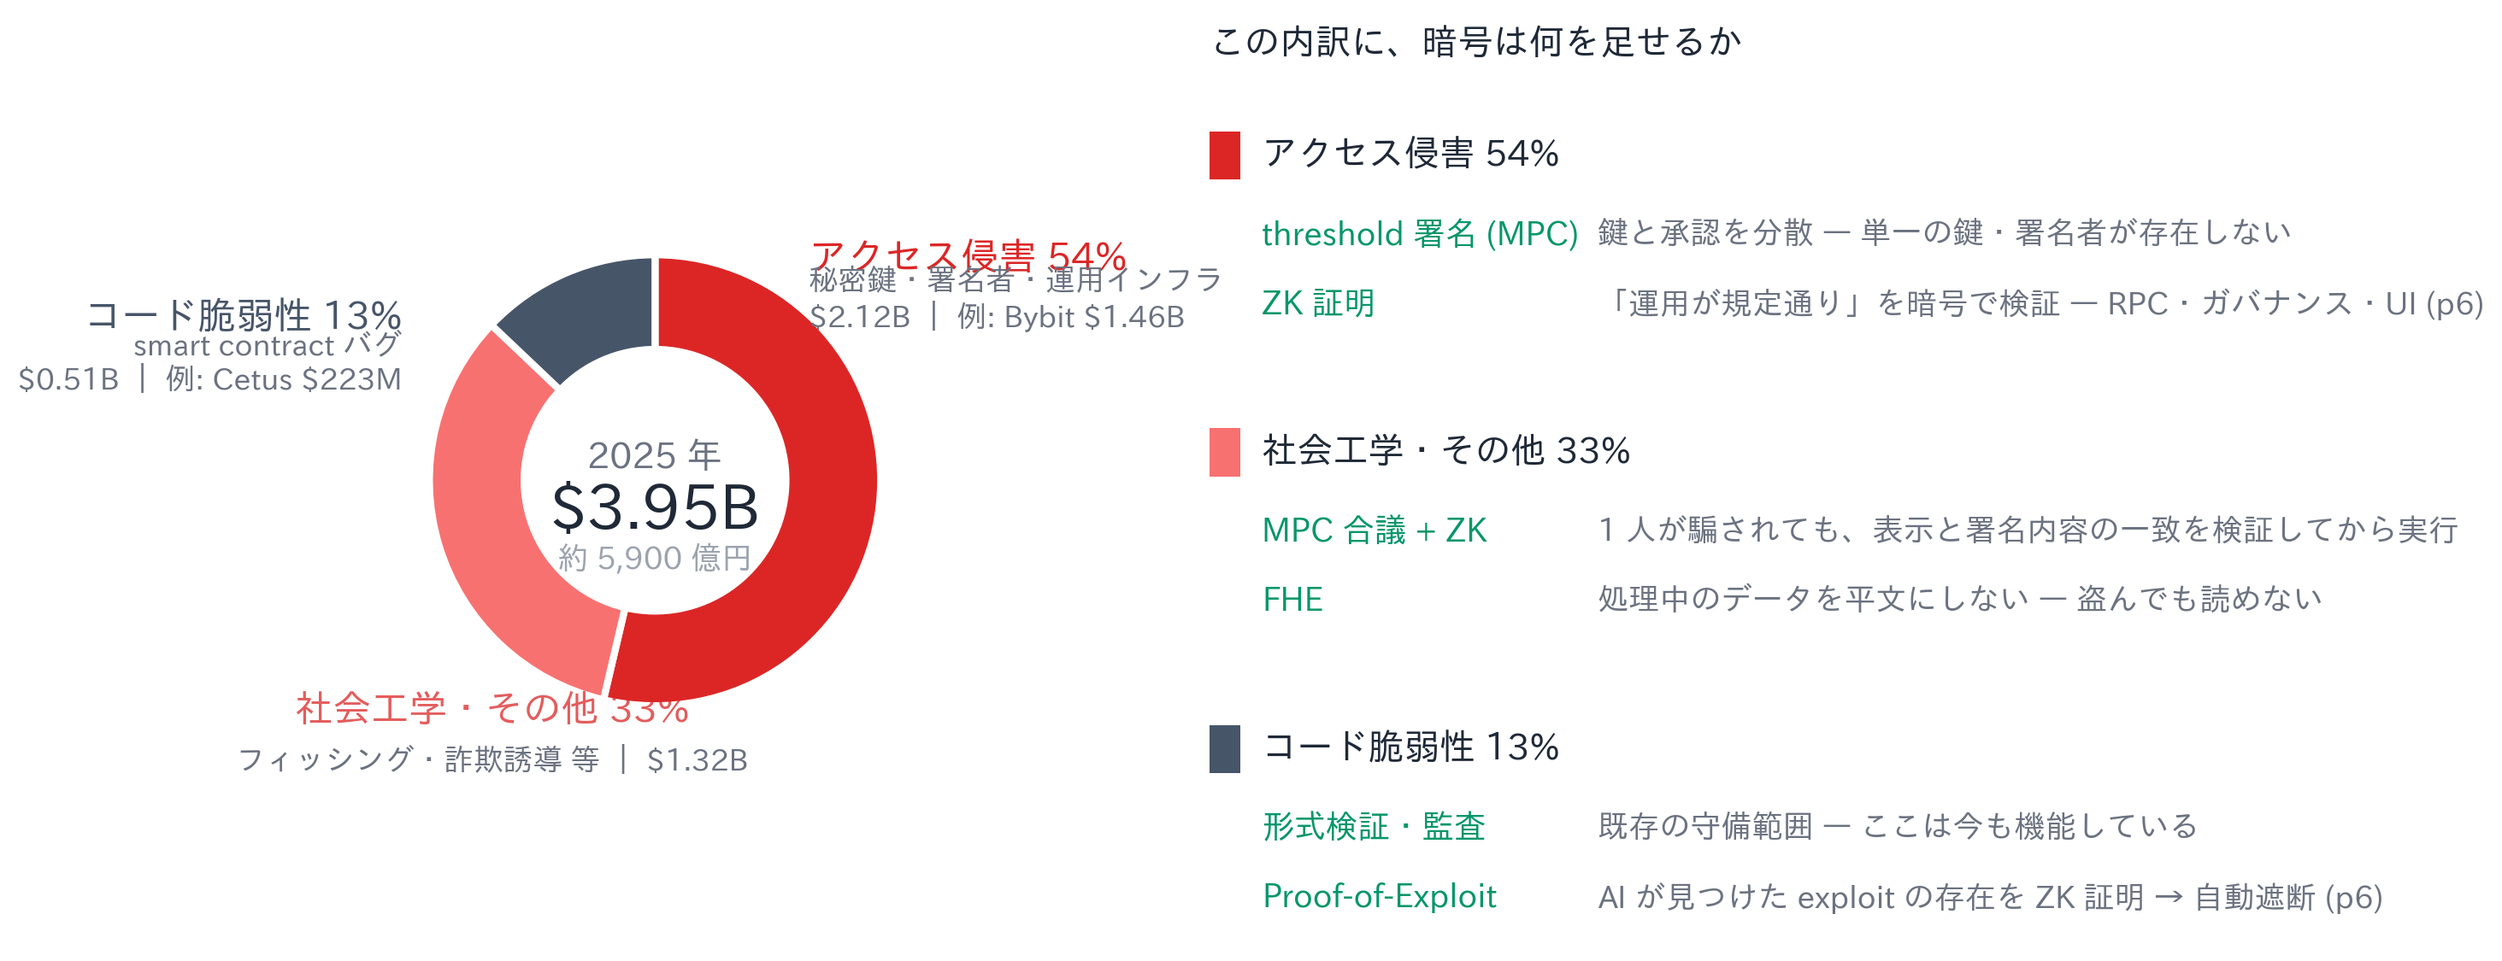
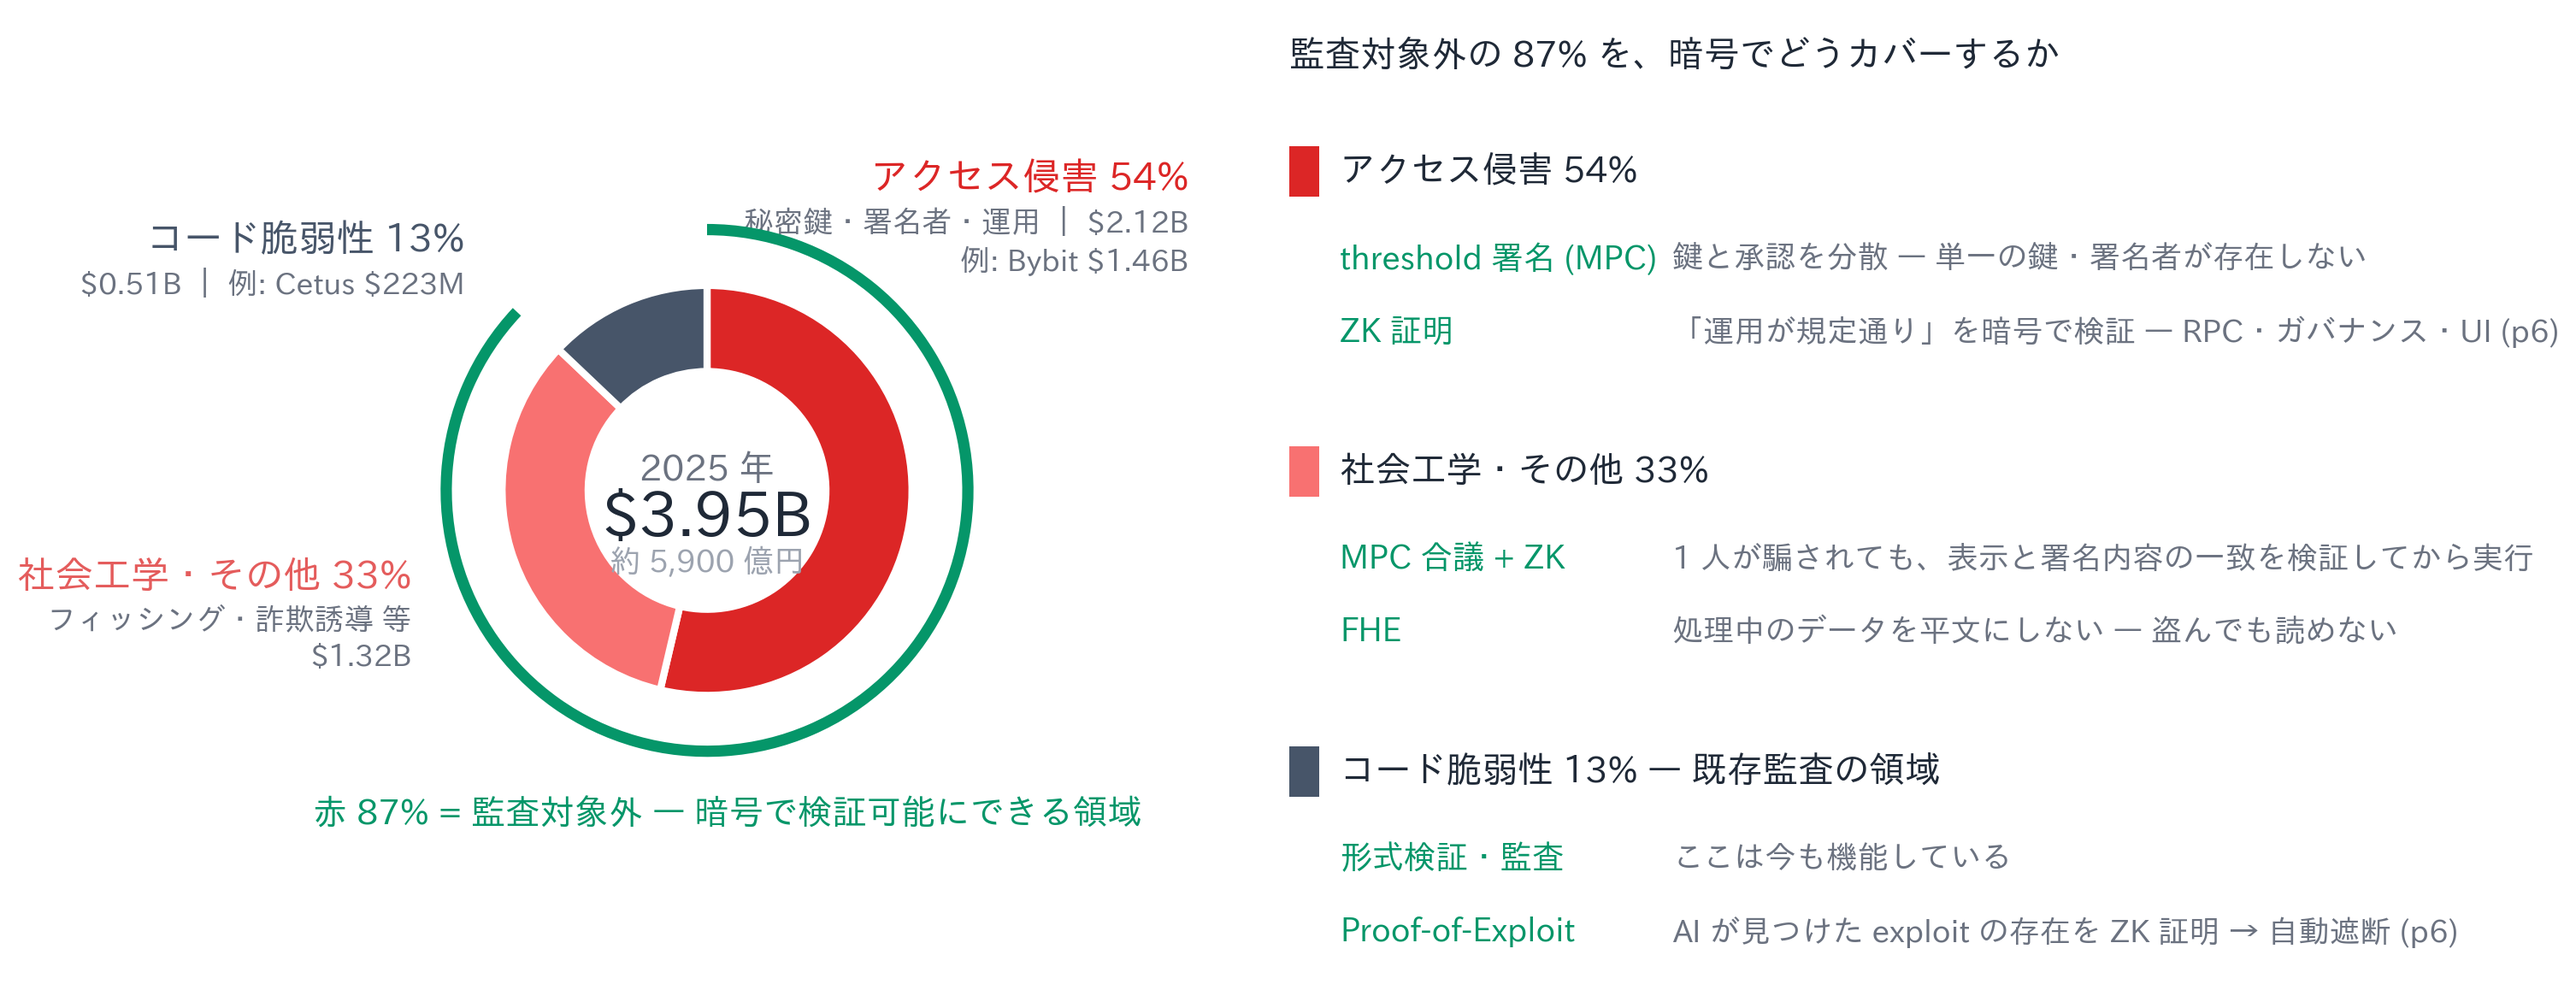
p7 (SL10): 円グラフのラベル再配置 + 監査対象外 87% を緑アークで「暗号でカバー可能」と明示

diff --git a/figures/hack_pie.py b/figures/hack_pie.py
@@ -5,16 +5,17 @@
 #
 # 設計:
 #   - ドーナツ (左) = 事実。Hacken 2025 Yearly Security Report の分類・金額。
-#   - 右側 = 各領域に対する暗号の防ぎ方 (green = 防御、デッキの色語彙に従う)。
-#   - 色は p3 (scope_gap_chart) と同義: グレー = コード脆弱性 (監査対象内)、
-#     赤系 = 監査の外 (アクセス侵害 / 社会工学)。
+#   - 監査対象外の 2 スライス (赤系, 87%) を緑の外周アークで束ね
+#     「暗号で検証可能にできる領域」であることを図から直接読ませる。
+#   - 右側 = その 87% への暗号の効き方 (green = 防御、デッキの色語彙に従う)。
+#   - 色は p3 (scope_gap_chart) と同義: グレー = コード脆弱性 (監査対象内)、赤系 = 監査対象外。
 #   - 凡例なし。スライス外の直接ラベル + 右のマッピング行で読ませる。
 
 import matplotlib
 matplotlib.use("Agg")
 import matplotlib.pyplot as plt
 import matplotlib.font_manager as fm
-from matplotlib.patches import Rectangle
+from matplotlib.patches import Rectangle, Wedge
 
 candidates = ["Noto Sans CJK JP", "Noto Sans JP", "IPAexGothic", "IPAGothic", "TakaoGothic"]
 available = {f.name for f in fm.fontManager.ttflist}
@@ -37,21 +38,24 @@ fig = plt.figure(figsize=(13.2, 5.9), dpi=200)
 fig.patch.set_facecolor(SURFACE)
 
 # ---------------------------------------------------------------- donut (left)
-ax = fig.add_axes([0.015, 0.04, 0.42, 0.92])
+ax = fig.add_axes([0.005, 0.02, 0.445, 0.96])
 ax.set_facecolor(SURFACE)
 ax.axis("off")
 
 # Hacken 2025 Yearly Security Report (total ~$3.95B)
-vals = [2.12, 1.32, 0.51]           # $B
-labels = ["アクセス侵害", "社会工学・その他", "コード脆弱性"]
+vals = [2.12, 1.32, 0.51]           # アクセス侵害 / 社会工学・その他 / コード脆弱性 ($B)
 colors = [RED, RED_LIGHT, GRAY]
-pcts = [54, 33, 13]
 
 wedges, _ = ax.pie(
     vals, colors=colors, startangle=90, counterclock=False,
     wedgeprops=dict(width=0.42, edgecolor=SURFACE, linewidth=3),
 )
 ax.set_aspect("equal")
+
+# 監査対象外 87% (アクセス侵害 + 社会工学) を束ねる緑の外周アーク
+# counterclock=False, start=90°: 87% は 90° から時計回りに 313.2° → ccw では 136.8° → 90°
+ax.add_patch(Wedge((0, 0), 1.30, 136.8, 90.0, width=0.055, facecolor=GREEN,
+                   edgecolor="none", zorder=6))
 
 ax.text(0, 0.10, "2025 年", ha="center", va="center", fontsize=15,
         fontweight="bold", color=TEXT_MUTED)
@@ -60,38 +64,46 @@ ax.text(0, -0.14, r"\$3.95B", ha="center", va="center", fontsize=26,
 ax.text(0, -0.35, "約 5,900 億円", ha="center", va="center", fontsize=13,
         fontweight="bold", color=TEXT_FAINT)
 
-# スライス外の直接ラベル (位置は手置き)
-ax.text(0.68, 0.98, "アクセス侵害 54%", ha="left", va="center", fontsize=16,
+# スライス外の直接ラベル (位置は手置き、重なり禁止)
+ax.text(2.35, 1.52, "アクセス侵害 54%", ha="right", va="center", fontsize=16,
         fontweight="bold", color=RED)
-ax.text(0.68, 0.80, r"秘密鍵・署名者・運用インフラ" "\n" r"\$2.12B ｜ 例: Bybit \$1.46B", ha="left",
-        va="center", fontsize=12.5, fontweight="bold", color=TEXT_MUTED)
-
-ax.text(-0.72, -1.02, "社会工学・その他 33%", ha="center", va="center", fontsize=16,
-        fontweight="bold", color="#dc2626", alpha=0.75)
-ax.text(-0.72, -1.24, r"フィッシング・詐欺誘導 等 ｜ \$1.32B", ha="center", va="center",
+ax.text(2.35, 1.31, r"秘密鍵・署名者・運用 ｜ \$2.12B", ha="right", va="center",
+        fontsize=12.5, fontweight="bold", color=TEXT_MUTED)
+ax.text(2.35, 1.12, r"例: Bybit \$1.46B", ha="right", va="center",
         fontsize=12.5, fontweight="bold", color=TEXT_MUTED)
 
-ax.text(-1.12, 0.72, "コード脆弱性 13%", ha="right", va="center", fontsize=16,
-        fontweight="bold", color=GRAY)
-ax.text(-1.12, 0.52, r"smart contract バグ" "\n" r"\$0.51B ｜ 例: Cetus \$223M", ha="right",
-        va="center", fontsize=12.5, fontweight="bold", color=TEXT_MUTED)
+ax.text(-1.44, -0.42, "社会工学・その他 33%", ha="right", va="center", fontsize=16,
+        fontweight="bold", color="#dc2626", alpha=0.75)
+ax.text(-1.44, -0.63, "フィッシング・詐欺誘導 等", ha="right", va="center",
+        fontsize=12.5, fontweight="bold", color=TEXT_MUTED)
+ax.text(-1.44, -0.81, r"\$1.32B", ha="right", va="center",
+        fontsize=12.5, fontweight="bold", color=TEXT_MUTED)
 
-ax.set_xlim(-2.1, 2.1)
-ax.set_ylim(-1.45, 1.45)
+ax.text(-1.18, 1.22, "コード脆弱性 13%", ha="right", va="center", fontsize=16,
+        fontweight="bold", color=GRAY)
+ax.text(-1.18, 1.01, r"\$0.51B ｜ 例: Cetus \$223M", ha="right", va="center",
+        fontsize=12.5, fontweight="bold", color=TEXT_MUTED)
+
+# 緑アークの意味 (下)
+ax.text(0.1, -1.58, "赤 87% = 監査対象外 — 暗号で検証可能にできる領域", ha="center",
+        va="center", fontsize=14.5, fontweight="bold", color=GREEN)
+
+ax.set_xlim(-2.45, 2.45)
+ax.set_ylim(-1.78, 1.68)
 
 # ---------------------------------------------------------------- mapping (right)
-axr = fig.add_axes([0.46, 0.04, 0.53, 0.92])
+axr = fig.add_axes([0.475, 0.02, 0.515, 0.96])
 axr.set_facecolor(SURFACE)
 axr.axis("off")
 axr.set_xlim(0, 100)
 axr.set_ylim(0, 100)
 
-axr.text(2, 97, "この内訳に、暗号は何を足せるか", ha="left", va="center",
+axr.text(2, 96, "監査対象外の 87% を、暗号でどうカバーするか", ha="left", va="center",
          fontsize=15, fontweight="bold", color=TEXT_PRIMARY)
 
 rows = [
     {
-        "y": 84, "color": RED, "head": "アクセス侵害 54%",
+        "y": 83, "color": RED, "head": "アクセス侵害 54%",
         "lines": [
             ("threshold 署名 (MPC)", "鍵と承認を分散 — 単一の鍵・署名者が存在しない"),
             ("ZK 証明", "「運用が規定通り」を暗号で検証 — RPC・ガバナンス・UI (p6)"),
@@ -105,9 +117,9 @@ rows = [
         ],
     },
     {
-        "y": 20, "color": GRAY, "head": "コード脆弱性 13%",
+        "y": 21, "color": GRAY, "head": "コード脆弱性 13% — 既存監査の領域",
         "lines": [
-            ("形式検証・監査", "既存の守備範囲 — ここは今も機能している"),
+            ("形式検証・監査", "ここは今も機能している"),
             ("Proof-of-Exploit", "AI が見つけた exploit の存在を ZK 証明 → 自動遮断 (p6)"),
         ],
     },
@@ -119,10 +131,10 @@ for r in rows:
     axr.text(6.4, y + 1, r["head"], ha="left", va="center", fontsize=15,
              fontweight="bold", color=TEXT_PRIMARY)
     for i, (tech, desc) in enumerate(r["lines"]):
-        yy = y - 7.5 - i * 7.5
+        yy = y - 8 - i * 7.5
         axr.text(6.4, yy, tech, ha="left", va="center", fontsize=13.5,
                  fontweight="bold", color=GREEN)
-        axr.text(34.5, yy, desc, ha="left", va="center", fontsize=13,
+        axr.text(35, yy, desc, ha="left", va="center", fontsize=13,
                  fontweight="bold", color=TEXT_MUTED)
 
 plt.savefig(OUT, facecolor=SURFACE, bbox_inches="tight")

diff --git a/TODO.md b/TODO.md
@@ -6,9 +6,10 @@ p10=SL22, p11=SL12, p12=SL14, p13=SL15, p14=SL17, p15=SL23, p16=SL25, p17=SL29, 
 
 ## p7 (slides/SL10.md) — 円グラフの手直し
 
-- [ ] 文字が被って醜いので配置を直す。
-- [ ] out-of-scope (監査対象外) 部分に対して「暗号でカバーできる」ことが伝わりづらい —
+- [x] 文字が被って醜いので配置を直す。(ラベルをドーナツ外周の空き領域に再配置)
+- [x] out-of-scope (監査対象外) 部分に対して「暗号でカバーできる」ことが伝わりづらい —
       赤い 87% の領域を暗号でカバーできる、が図から直接読めるようにする。
+      (赤 2 スライスを緑の外周アークで束ね「暗号で検証可能にできる領域」ラベルを付けた)
 
 ## p8 の後 — Ethereum のプライバシー需要スライドを新設 (slides/SL10d.md)
 
